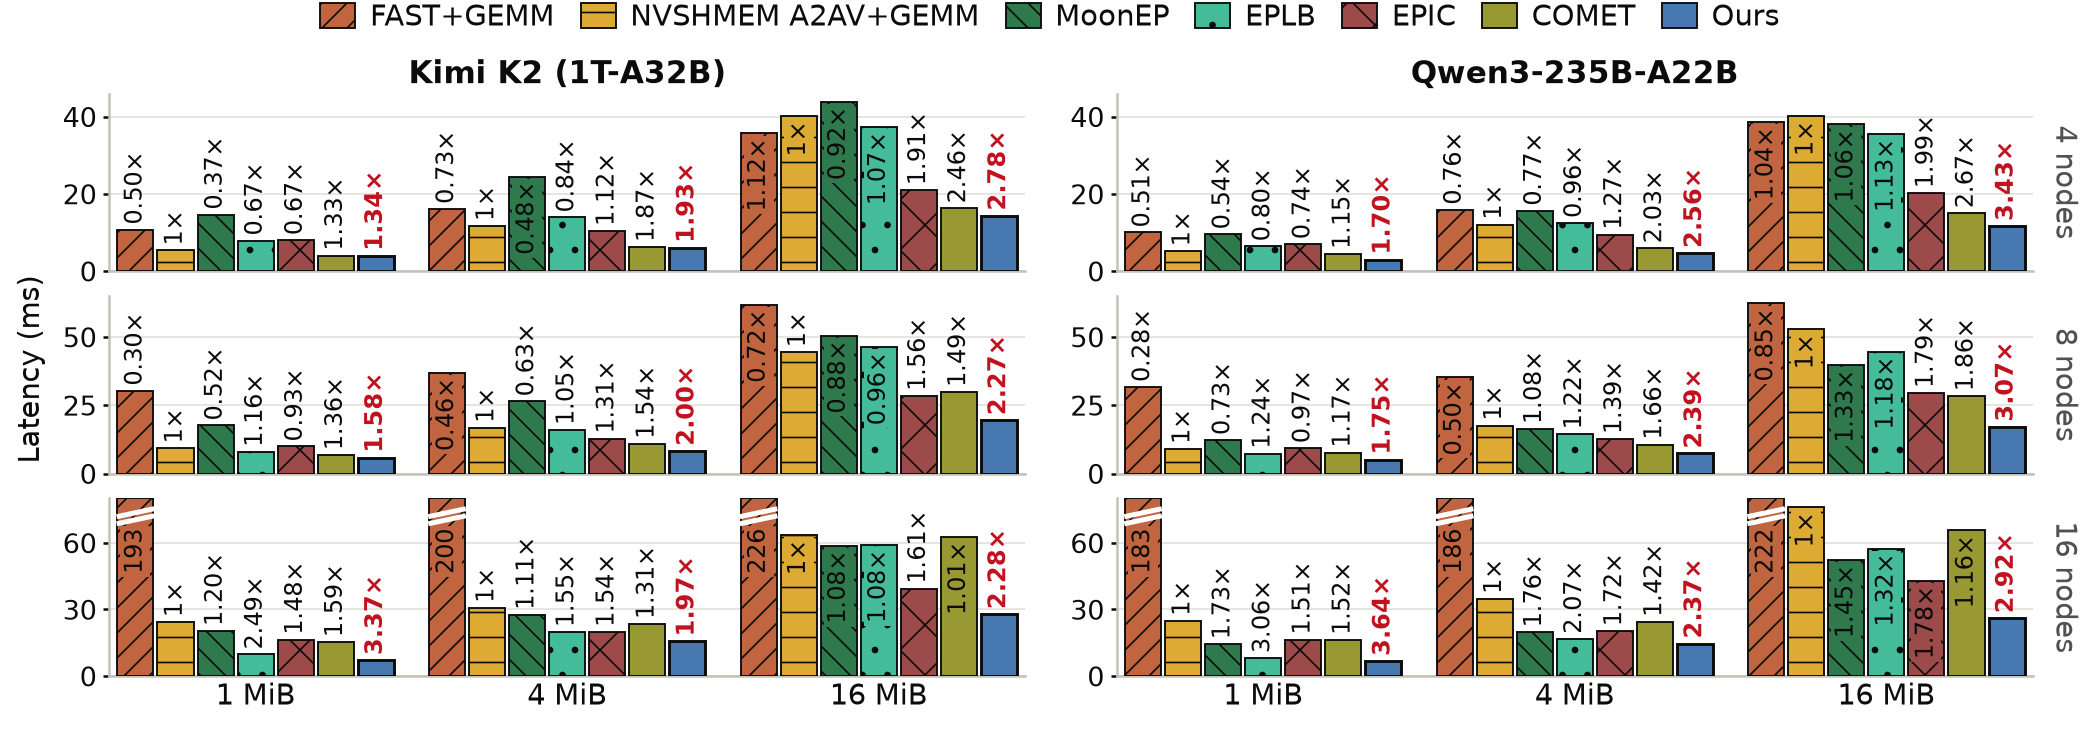
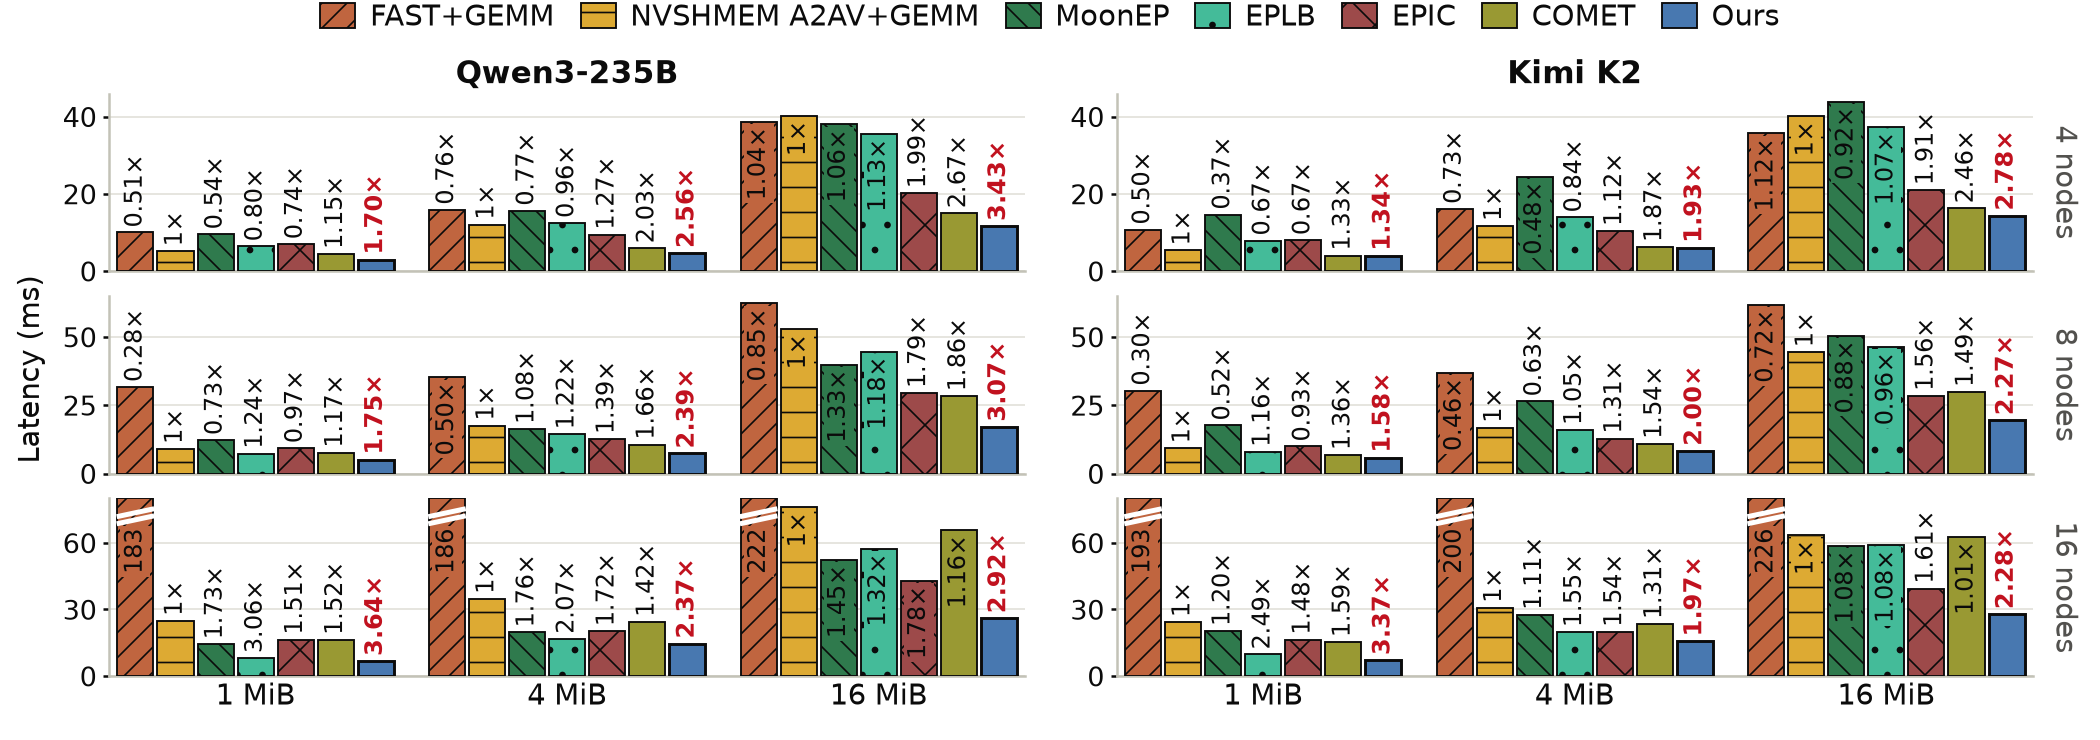
figs/main_perf REV 3: columns Qwen3-235B (left) / Kimi K2 (right) per user ruling

diff --git a/figs/main_perf/make_figure.py b/figs/main_perf/make_figure.py
@@ -22,7 +22,7 @@ CONFIG = dict(
     # ---- data selection ----
     BUDGETS=[1, 4, 16],                       # MiB, group order left->right
     ROWS=["4", "8", "16"],                    # topology per subfigure ROW (top->bottom)
-    COLS=["K2", "Qwen"],                      # model per subfigure COLUMN (left->right)
+    COLS=["Qwen", "K2"],                      # model per subfigure COLUMN (left->right)
     SYSTEMS=[                                 # fixed bar order (SPEC 2.1)
         "fast_gemm", "nvshmem_gemm", "moonep", "eplb", "epic", "comet", "OURS",
     ],
@@ -101,7 +101,7 @@ CONFIG = dict(
     BOTTOM_STRIP_IN=0.213,     # x group labels strip below the panels
     MARGINS_LR=dict(left=0.052, right=0.968),   # unchanged -> same panel width
     WSPACE=0.10, HSPACE=0.14,  # fractions of panel width/height
-    COL_TITLES={"K2": "Kimi K2 (1T-A32B)", "Qwen": "Qwen3-235B-A22B"},
+    COL_TITLES={"Qwen": "Qwen3-235B", "K2": "Kimi K2"},
     COL_TITLE_PAD=2.5,                        # pt above axes
     COL_TITLE_WEIGHT="bold",
     ROW_TAGS={"4": "4 nodes", "8": "8 nodes", "16": "16 nodes"},   # row tag text

diff --git a/figs/main_perf/SPEC.md b/figs/main_perf/SPEC.md
@@ -1,6 +1,6 @@
 # Main performance figure — aesthetic & architecture spec
 
-Status: REV 3 DRAFT (2026-09-03, +8 nodes, 3x2 layout — see §9). Aesthetics unchanged from REV 2.1. Data authority: `figure_src.csv` (+
+Status: REV 3 (2026-09-03, +8 nodes, 3x2 layout, Qwen left / K2 right — see §9). Aesthetics unchanged from REV 2.1. Data authority: `figure_src.csv` (+
 `figure_src.md` provenance). Generator: `make_figure.py` (matplotlib, to be
 written after this spec is approved). Every value marked **[knob]** is a
 parameter in the generator's single `CONFIG` block — nothing aesthetic is
@@ -14,11 +14,10 @@ hard-coded outside it.
   exported figure is built at exactly its final physical size — fonts are
   therefore true points, never scaled.
 - **REV 3: six subfigures in a 3x2 grid** — rows = topology **{4, 8, 16
-  nodes}** (top to bottom), columns = model **{Kimi K2, Qwen3}** with FULL
-  model names as column titles (**[knob: COL_TITLES]** — "Kimi K2 (1T-A32B)",
-  "Qwen3-235B-A22B"; column order K2 left / Qwen right, the same K2-first
-  order the 2x2 used top-to-bottom, **[knob: COLS]**). Replaces the REV 2
-  2x2 (columns = topology, rows = model).
+  nodes}** (top to bottom), columns = model **{Qwen3, Kimi K2}** — Qwen
+  LEFT, K2 RIGHT **[knob: COLS]** — with model names as column titles
+  **[knob: COL_TITLES]**: "Qwen3-235B" and "Kimi K2" (user ruling
+  2026-09-03). Replaces the REV 2 2x2 (columns = topology, rows = model).
 - **REV 3 sizing rule (user, 2026-09-03): each subfigure keeps EXACTLY the
   REV 2.1 panel size and spacing** — panel height 0.592 in, wspace 0.10,
   hspace 0.14, the same top strip (legend + titles) and bottom strip. The
